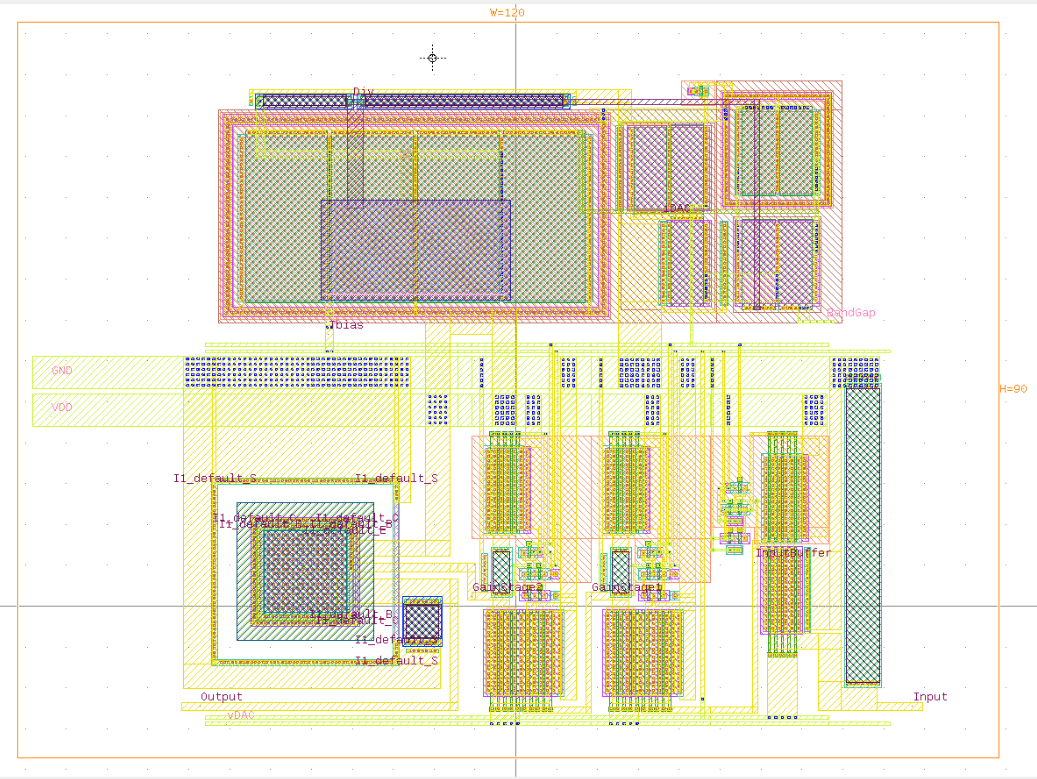
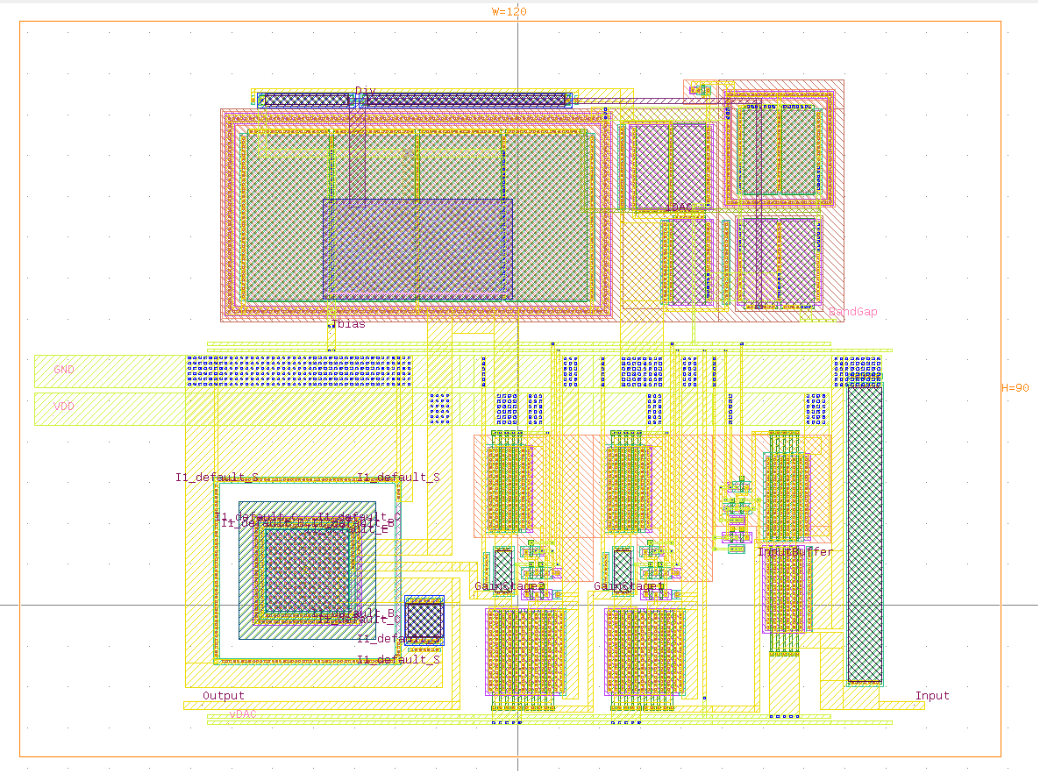
Added more layout documentation

diff --git a/Layout/Layout.md b/Layout/Layout.md
@@ -1,20 +1,54 @@
 # Low Noise Amplifier Layout
 ![LNA Layout](/Images/LNA_Layout.png)
 
+*LNA Layout GDS files available at: /Layout/LNA/LNAMkV.klay.gds*
+
+Above is the layout for the L-Band LNA presented prior.  The simulation test results are available [here](/Layout/LNA/Simulations.md).
+
 ## Input Buffer
+### Input Buffer Layout
 ![Input Buffer Layout](/Images/InputBuffer_Layout.png)
+
+### Input Buffer Layout Driven Schematic
 ![Input Buffer LDS](/Images/InputBuffer_LDS.png)
+*The LVS schematic is available at: /Schematic/Input Buffer/InputBufferMkI_LVS.sch*
+
+### Input Buffer LVS Results
 ![Input Buffer LVS](/Images/InputBuffer_LVS.png)
 
+
 ## Gain Stage
+### Gain Stage Layout
 ![Gain Stage Layout](/Images/GainStage_Layout.png)
+
+### Gain Stage Layout Driven Schematic
 ![Gain Stage LDS](/Images/GainStage_LDS.png)
+*The LVS schematic is available at: /Schematic/Gain Stage/GainStageMkII_LVS.sch*
+
+### Gain Stage LVS Results
 ![Gain Stage LVS](/Images/GainStage_LVS.png)
 
+
 ## Output Buffer
+### Output Buffer Layout
 ![Output Buffer Layout](/Images/OutputBuffer_Layout.png)
+
+### Output Buffer Layout Driven Schematic
 ![Output Buffer LDS](/Images/OutputBuffer_LDS.png)
+*The LVS schematic is available at: /Schematic/Output Buffer/OutputBufferMkVI_LVS.sch*
+
+### Output Buffer LVS Results
 ![Output Buffer LVS](/Images/OutputBuffer_LVS.png)
 
+
 ## Reference
+### Reference Laypout
+![Reference LVS](/Images/Reference_Layout.png)
+
+### Reference LVS Results
 ![Reference LVS](/Images/Reference_LVS.png)
+
+
+
+## Pad
+
